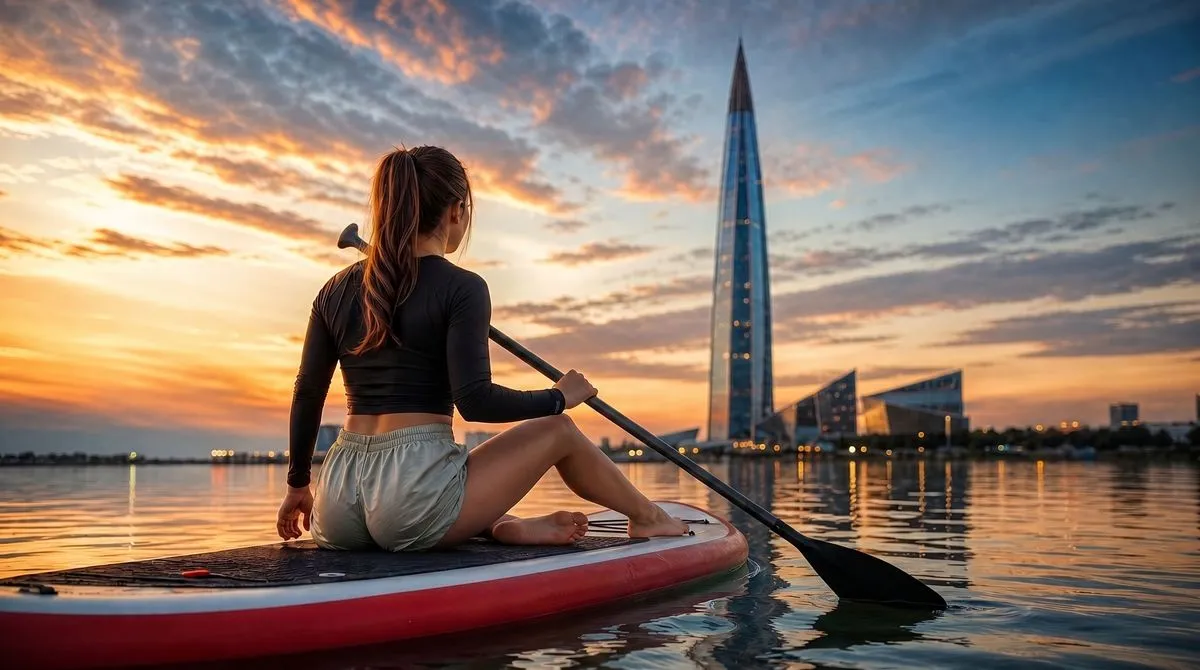
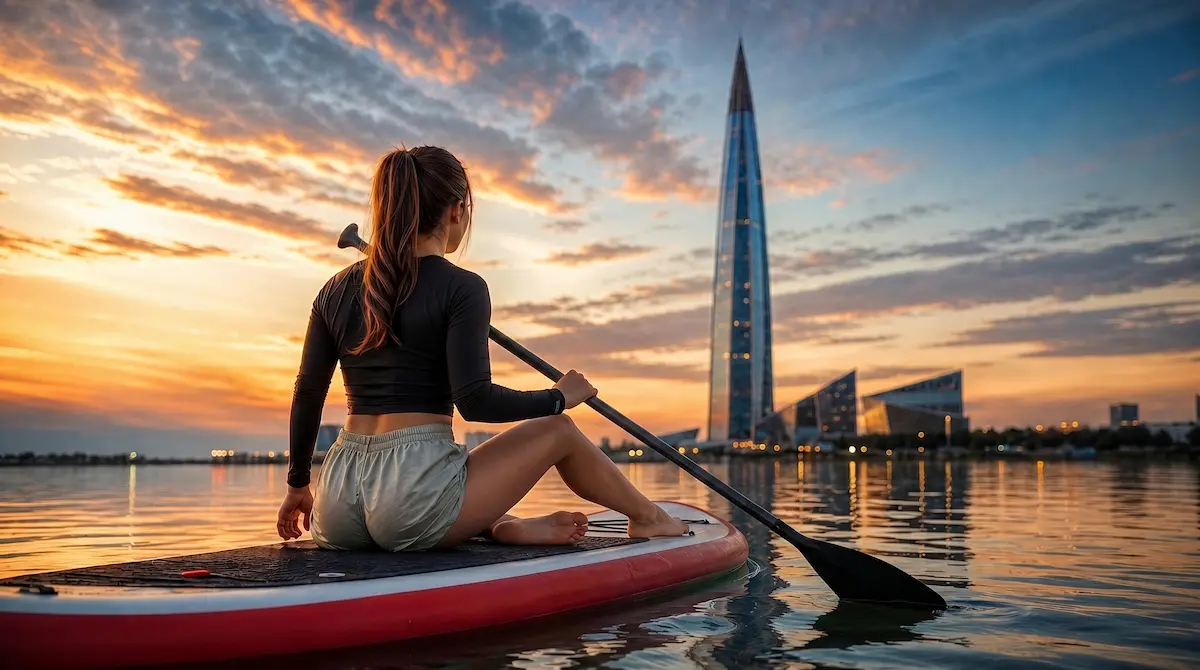
Исправлена загрузка изображений на мобильных устройствах

Changed region(s): [[0.4933, 0.7761, 0.5242, 0.806]]

diff --git a/index.html b/index.html
@@ -11,6 +11,8 @@
   <title>Plav. — SUP-прогулки и аренда в Санкт-Петербурге</title>
   <link rel="stylesheet" href="css/styles.css">
   <link href="https://fonts.googleapis.com/css2?family=Montserrat:wght@500;600;700;800;900&family=Inter:opsz,wght@14..32,400;14..32,500;14..32,600&display=swap" rel="stylesheet">
+  <!-- Предзагрузка hero-фона для ускорения отрисовки -->
+  <link rel="preload" as="image" href="images/main.webp">
 </head>
 <body>
 <a href="#main-content" class="skip-link">Пропустить навигацию</a>
@@ -78,14 +80,13 @@
     <h2 class="section-title">Прогулки с <span class="accent">инструктором</span></h2>
     <p class="section-subtitle">Выберите маршрут и время — всё остальное мы берём на себя</p>
     <div class="services-grid">
-      <!-- Карточки услуг с каруселью (оставлены без изменений, только добавил loading="lazy") -->
       <!-- Спас на крови -->
       <div class="service-card">
         <div class="service-photo-carousel">
           <div class="carousel-viewport" data-carousel>
-            <div class="carousel-slide"><img src="images/Spas1.webp" alt="Спас на крови вид 1" loading="lazy"></div>
-            <div class="carousel-slide"><img src="images/Spas2.webp" alt="Спас на крови вид 2" loading="lazy"></div>
-            <div class="carousel-slide"><img src="images/Spas3.webp" alt="Спас на крови вид 3" loading="lazy"></div>
+            <div class="carousel-slide"><img src="images/Spas1.webp" alt="Спас на крови вид 1" loading="lazy" width="800" height="600"></div>
+            <div class="carousel-slide"><img src="images/Spas2.webp" alt="Спас на крови вид 2" loading="lazy" width="800" height="600"></div>
+            <div class="carousel-slide"><img src="images/Spas3.webp" alt="Спас на крови вид 3" loading="lazy" width="800" height="600"></div>
           </div>
           <button class="carousel-btn prev" data-prev aria-label="Предыдущее фото">❮</button>
           <button class="carousel-btn next" data-next aria-label="Следующее фото">❯</button>
@@ -107,9 +108,9 @@
       <div class="service-card">
         <div class="service-photo-carousel">
           <div class="carousel-viewport" data-carousel>
-            <div class="carousel-slide"><img src="images/Islands1.webp" alt="Парковые острова 1" loading="lazy"></div>
-            <div class="carousel-slide"><img src="images/Islands2.webp" alt="Парковые острова 2" loading="lazy"></div>
-            <div class="carousel-slide"><img src="images/Islands3.webp" alt="Парковые острова 3" loading="lazy"></div>
+            <div class="carousel-slide"><img src="images/Islands1.webp" alt="Парковые острова 1" loading="lazy" width="800" height="600"></div>
+            <div class="carousel-slide"><img src="images/Islands2.webp" alt="Парковые острова 2" loading="lazy" width="800" height="600"></div>
+            <div class="carousel-slide"><img src="images/Islands3.webp" alt="Парковые острова 3" loading="lazy" width="800" height="600"></div>
           </div>
           <button class="carousel-btn prev" data-prev aria-label="Предыдущее фото">❮</button>
           <button class="carousel-btn next" data-next aria-label="Следующее фото">❯</button>
@@ -134,9 +135,9 @@
       <div class="service-card">
         <div class="service-photo-carousel">
           <div class="carousel-viewport" data-carousel>
-            <div class="carousel-slide"><img src="images/Lakhta1.webp" alt="Лахтинский разлив 1" loading="lazy"></div>
-            <div class="carousel-slide"><img src="images/Lakhta2.webp" alt="Лахтинский разлив 2" loading="lazy"></div>
-            <div class="carousel-slide"><img src="images/Lakhta3.webp" alt="Лахтинский разлив 3" loading="lazy"></div>
+            <div class="carousel-slide"><img src="images/Lakhta1.webp" alt="Лахтинский разлив 1" loading="lazy" width="800" height="600"></div>
+            <div class="carousel-slide"><img src="images/Lakhta2.webp" alt="Лахтинский разлив 2" loading="lazy" width="800" height="600"></div>
+            <div class="carousel-slide"><img src="images/Lakhta3.webp" alt="Лахтинский разлив 3" loading="lazy" width="800" height="600"></div>
           </div>
           <button class="carousel-btn prev" data-prev aria-label="Предыдущее фото">❮</button>
           <button class="carousel-btn next" data-next aria-label="Следующее фото">❯</button>
@@ -164,7 +165,7 @@
     <h2 class="section-title">Аренда <span class="accent">SUP-досок</span></h2>
     <p class="section-subtitle">Гибкие тарифы и отличное оборудование для вашего отдыха</p>
     <div class="rent-image" data-full="images/equipment.webp" role="button" tabindex="0" aria-label="Открыть увеличенное фото снаряжения">
-      <img src="images/equipment.webp" alt="Комплектация SUP-доски" id="equipmentImg" loading="lazy">
+      <img src="images/equipment.webp" alt="Комплектация SUP-доски" id="equipmentImg" loading="lazy" width="800" height="533">
     </div>
     <div class="rent-horizontal">
       <div class="rent-col">
@@ -202,14 +203,14 @@
   <section id="gallery" aria-label="Галерея впечатлений">
     <h2 class="section-title">Галерея <span class="accent">впечатлений</span></h2>
     <div class="gallery-scroll" id="galleryScroll">
-      <div class="gallery-item" data-full="images/impressions/1.webp"><img src="images/impressions/1.webp" alt="Впечатление 1" loading="lazy"></div>
-      <div class="gallery-item" data-full="images/impressions/2.webp"><img src="images/impressions/2.webp" alt="Впечатление 2" loading="lazy"></div>
-      <div class="gallery-item" data-full="images/impressions/3.webp"><img src="images/impressions/3.webp" alt="Впечатление 3" loading="lazy"></div>
-      <div class="gallery-item" data-full="images/impressions/4.webp"><img src="images/impressions/4.webp" alt="Впечатление 4" loading="lazy"></div>
-      <div class="gallery-item" data-full="images/impressions/5.webp"><img src="images/impressions/5.webp" alt="Впечатление 5" loading="lazy"></div>
-      <div class="gallery-item" data-full="images/impressions/6.webp"><img src="images/impressions/6.webp" alt="Впечатление 6" loading="lazy"></div>
-      <div class="gallery-item" data-full="images/impressions/7.webp"><img src="images/impressions/7.webp" alt="Впечатление 7" loading="lazy"></div>
-      <div class="gallery-item" data-full="images/impressions/8.webp"><img src="images/impressions/8.webp" alt="Впечатление 8" loading="lazy"></div>
+      <div class="gallery-item" data-full="images/impressions/1.webp"><img src="images/impressions/1.webp" alt="Впечатление 1" loading="lazy" width="300" height="200"></div>
+      <div class="gallery-item" data-full="images/impressions/2.webp"><img src="images/impressions/2.webp" alt="Впечатление 2" loading="lazy" width="300" height="200"></div>
+      <div class="gallery-item" data-full="images/impressions/3.webp"><img src="images/impressions/3.webp" alt="Впечатление 3" loading="lazy" width="300" height="200"></div>
+      <div class="gallery-item" data-full="images/impressions/4.webp"><img src="images/impressions/4.webp" alt="Впечатление 4" loading="lazy" width="300" height="200"></div>
+      <div class="gallery-item" data-full="images/impressions/5.webp"><img src="images/impressions/5.webp" alt="Впечатление 5" loading="lazy" width="300" height="200"></div>
+      <div class="gallery-item" data-full="images/impressions/6.webp"><img src="images/impressions/6.webp" alt="Впечатление 6" loading="lazy" width="300" height="200"></div>
+      <div class="gallery-item" data-full="images/impressions/7.webp"><img src="images/impressions/7.webp" alt="Впечатление 7" loading="lazy" width="300" height="200"></div>
+      <div class="gallery-item" data-full="images/impressions/8.webp"><img src="images/impressions/8.webp" alt="Впечатление 8" loading="lazy" width="300" height="200"></div>
     </div>
   </section>
 

diff --git a/css/styles.css b/css/styles.css
@@ -119,10 +119,22 @@ section:not(.hero) { padding: 80px 24px; max-width: 1200px; margin: 0 auto; }
 }
 .service-card:hover { transform: translateY(-6px); }
 .service-photo-carousel { position: relative; overflow: hidden; }
-.carousel-viewport { display: flex; overflow-x: auto; overflow-y: hidden; scroll-snap-type: x mandatory; scrollbar-width: none; }
+
+/* ===== ИСПРАВЛЕНИЕ: фиксированное соотношение сторон для карусели ===== */
+.carousel-viewport {
+  display: flex;
+  overflow-x: auto;
+  overflow-y: hidden;
+  scroll-snap-type: x mandatory;
+  scrollbar-width: none;
+  aspect-ratio: 4 / 3;         /* НОВОЕ – сохраняет пропорции */
+  min-height: 220px;           /* страховка для старых браузеров */
+}
 .carousel-viewport::-webkit-scrollbar { display: none; }
 .carousel-slide { flex: 0 0 100%; scroll-snap-align: start; }
-.carousel-slide img { width: 100%; height: auto; display: block; cursor: pointer; } /* ← курсор pointer */
+.carousel-slide img { width: 100%; height: auto; display: block; cursor: pointer; }
+/* ================================================================ */
+
 .carousel-btn {
   position: absolute; top: 50%; transform: translateY(-50%);
   background: rgba(0,0,0,0.5); color: #fff; border: none; width: 36px; height: 36px;
@@ -249,4 +261,9 @@ section:not(.hero) { padding: 80px 24px; max-width: 1200px; margin: 0 auto; }
   .service-card-body { flex-direction: column; }
   .service-map { width: 100%; height: 160px; }
   .rent-horizontal { flex-direction: column; align-items: center; }
+  /* Уменьшаем плавающую кнопку на мобильных */
+  .telegram-float {
+    width: 50px; height: 50px; bottom: 16px; right: 16px;
+  }
+  .telegram-float svg { width: 28px; height: 28px; }
 }
